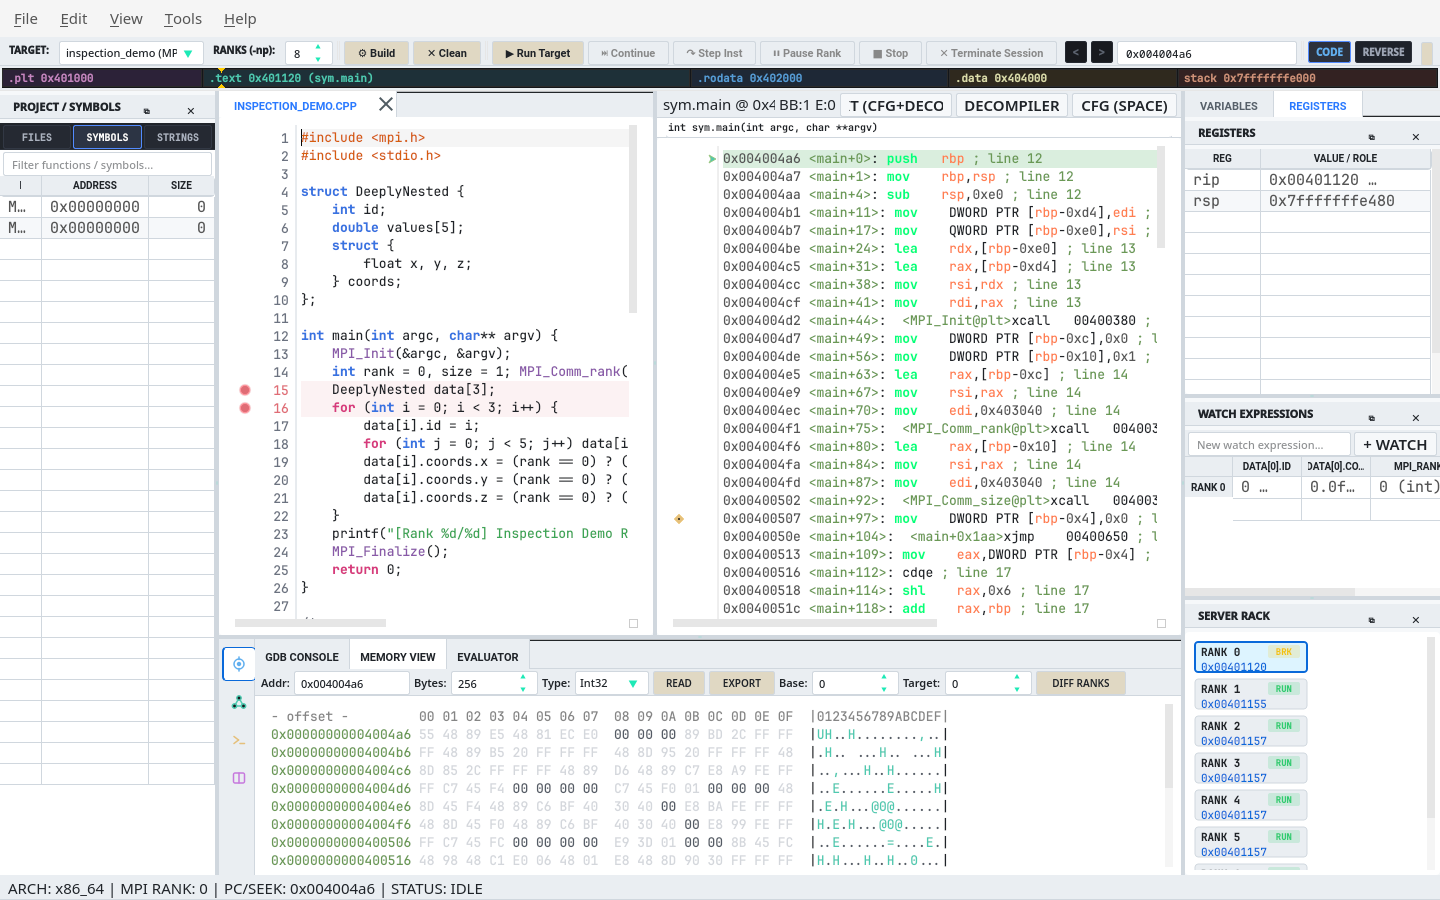
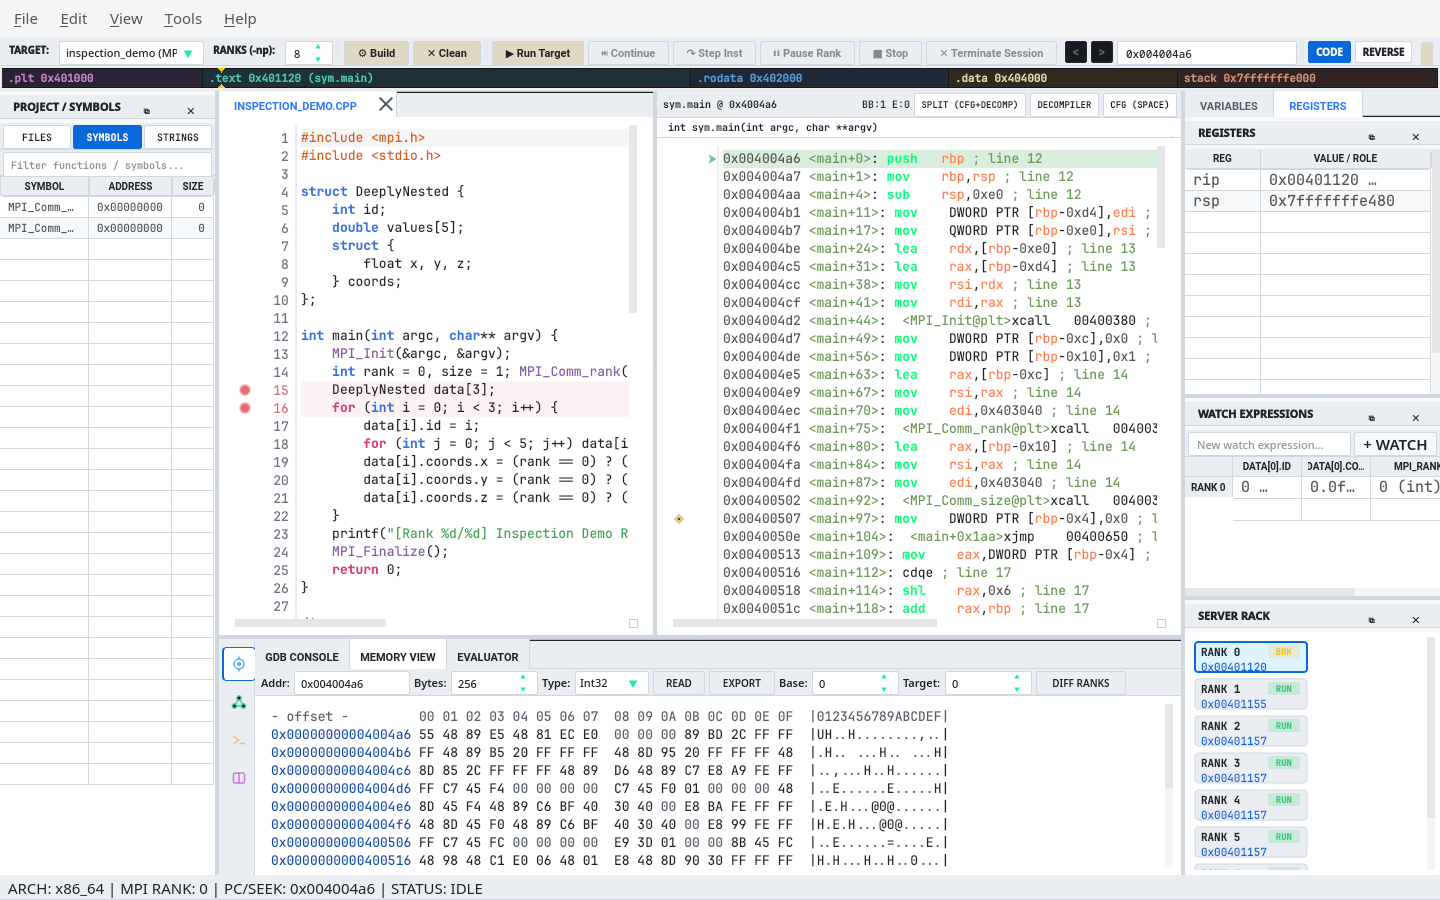
fix(disasm,docs): prevent DisassemblyView header button clipping and add Solarized/Latte screenshots to THEMES.md

diff --git a/tests/test_ui_aux.cpp b/tests/test_ui_aux.cpp
@@ -738,29 +738,24 @@ void TestMainWindowUI::testTerminalFontIsolationLivePatchingAndDeadlockCycle() {
 void TestMainWindowUI::testPatchedElfExportWorkspaceSearchAndDeadlockPropagation() {
     // 1. Initialize MainWindow and load running binary target
     gridlock::ui::MainWindow mainWindow;
-    const QString appPath = QCoreApplication::applicationFilePath();
-    QVERIFY(mainWindow.loadBinaryTarget(appPath));
+    QVERIFY(mainWindow.loadBinaryTarget(QCoreApplication::applicationFilePath()));
     mainWindow.loadPreviewFixture();
     auto* inspector = mainWindow.elfInspector();
     QVERIFY(inspector != nullptr && inspector->isValid());
 
     // Locate .text section address
     uint64_t textAddr = 0;
-    for (const auto& sec : inspector->sections()) {
-        if (sec.name == QStringLiteral(".text")) { textAddr = sec.address; break; }
-    }
+    for (const auto& sec : inspector->sections()) if (sec.name == QStringLiteral(".text")) { textAddr = sec.address; break; }
     if (textAddr == 0) textAddr = inspector->entryPoint();
     QVERIFY(textAddr != 0);
 
     // Apply live 2-byte patch via MemView and export patched binary to temporary file on disk
     auto* memView = mainWindow.findChild<gridlock::ui::MemView*>();
-    QVERIFY(memView != nullptr);
     const QByteArray patchBytes = QByteArray::fromHex("9090");
-    QVERIFY(memView->patchBytes(textAddr, patchBytes));
+    QVERIFY(memView != nullptr && memView->patchBytes(textAddr, patchBytes));
     QTemporaryDir tempDir;
-    QVERIFY(tempDir.isValid());
     const QString exportPath = tempDir.filePath(QStringLiteral("patched_gridlock_bin"));
-    QVERIFY(mainWindow.exportPatchedBinary(exportPath) && QFile::exists(exportPath));
+    QVERIFY(tempDir.isValid() && mainWindow.exportPatchedBinary(exportPath) && QFile::exists(exportPath));
 
     // Verify written file permissions and payload via independent inspector
     gridlock::core::ElfBinaryInspector verifyInspector(exportPath);
@@ -768,23 +763,17 @@ void TestMainWindowUI::testPatchedElfExportWorkspaceSearchAndDeadlockPropagation
 
     // 2. Test unified multi-domain workspace search
     const auto searchMatches = mainWindow.searchWorkspace(QStringLiteral("main"));
-    QVERIFY(!searchMatches.isEmpty());
     bool foundValidAddress = false;
     for (const auto& match : searchMatches) {
-        if (match.address != 0 && (match.label.contains(QStringLiteral("main"), Qt::CaseInsensitive) ||
-                                   match.contextSnippet.contains(QStringLiteral("main"), Qt::CaseInsensitive))) {
-            foundValidAddress = true; break;
-        }
+        if (match.address != 0 && (match.label.contains(QStringLiteral("main"), Qt::CaseInsensitive) || match.contextSnippet.contains(QStringLiteral("main"), Qt::CaseInsensitive))) { foundValidAddress = true; break; }
     }
-    QVERIFY(foundValidAddress);
+    QVERIFY(!searchMatches.isEmpty() && foundValidAddress);
 
     // 3. Test deadlock wait-for cycle detection and propagation to DisassemblyView and status bar
     const QVector<int> detectedCycle = mainWindow.detectAndHighlightDeadlock({{0, 1}, {1, 0}});
-    QVERIFY(detectedCycle.contains(0) && detectedCycle.contains(1));
     auto* disasm = mainWindow.findChild<gridlock::ui::DisassemblyView*>();
-    QVERIFY(disasm != nullptr && disasm->deadlockCycleRanks().contains(0) && disasm->deadlockCycleRanks().contains(1));
     auto* telemetryLabel = mainWindow.findChild<QLabel*>(QStringLiteral("cutterStatusTelemetry"));
-    QVERIFY(telemetryLabel != nullptr && telemetryLabel->text().contains(QStringLiteral("DEADLOCK")));
+    QVERIFY(detectedCycle.contains(0) && detectedCycle.contains(1) && disasm && disasm->deadlockCycleRanks().contains(0) && telemetryLabel && telemetryLabel->text().contains(QStringLiteral("DEADLOCK")));
 }
 
 /**
@@ -800,40 +789,31 @@ void TestMainWindowUI::testMultiDistroPackageManagerParsingAndViewModes() {
     // 2. Multi-Distro CLI Output Parsing (pacman, dnf4, dnf5, apt, zypper).
     const QString pacmanOut = QStringLiteral("extra/openmpi 5.0.5-1 [installed]\n    High performance message passing library (MPI)\nextra/hypre 2.31.0-1\n    Parallel multigrid solvers\n");
     const auto pacmanRecs = widget.parsePackageManagerOutput(QStringLiteral("pacman"), pacmanOut);
-    QVERIFY(pacmanRecs.size() == 2 && pacmanRecs[0].name == QStringLiteral("openmpi") && pacmanRecs[0].version == QStringLiteral("5.0.5-1"));
-    QVERIFY(pacmanRecs[0].repository == QStringLiteral("extra") && pacmanRecs[0].status == QStringLiteral("Installed") && pacmanRecs[0].description.contains(QStringLiteral("message passing")));
-    QVERIFY(pacmanRecs[1].name == QStringLiteral("hypre") && pacmanRecs[1].status == QStringLiteral("Available"));
+    QVERIFY(pacmanRecs.size() == 2 && pacmanRecs[0].name == QStringLiteral("openmpi") && pacmanRecs[0].version == QStringLiteral("5.0.5-1") && pacmanRecs[0].repository == QStringLiteral("extra") && pacmanRecs[0].status == QStringLiteral("Installed") && pacmanRecs[1].name == QStringLiteral("hypre") && pacmanRecs[1].status == QStringLiteral("Available"));
 
     // Verify Fedora/RHEL dnf4 ("pkg.arch : summary") and Fedora 40+ dnf5 (" pkg.arch\tsummary") formats.
     const auto dnfRecs = widget.parsePackageManagerOutput(QStringLiteral("dnf"), QStringLiteral("Last metadata expiration check...\n=== Name & Summary Matched: openmpi ===\nopenmpi.x86_64 : Open Message Passing Interface\nopenmpi-devel.x86_64 : Development headers for OpenMPI\n"));
-    QVERIFY(dnfRecs.size() == 2 && dnfRecs[0].name == QStringLiteral("openmpi") && dnfRecs[0].arch == QStringLiteral("x86_64") && dnfRecs[1].name == QStringLiteral("openmpi-devel"));
     const auto dnf5Recs = widget.parsePackageManagerOutput(QStringLiteral("dnf"), QStringLiteral("Updating and loading repositories:\nRepositories loaded.\nMatched fields: name, summary\n fd-find.x86_64\tFast and user-friendly alternative to find\n fdupes.x86_64  Finds duplicate files in a given set of directories\n"));
-    QVERIFY(dnf5Recs.size() == 2 && dnf5Recs[0].name == QStringLiteral("fd-find") && dnf5Recs[0].arch == QStringLiteral("x86_64") && dnf5Recs[0].description.contains(QStringLiteral("alternative to find")) && dnf5Recs[1].name == QStringLiteral("fdupes"));
+    QVERIFY(dnfRecs.size() == 2 && dnfRecs[0].name == QStringLiteral("openmpi") && dnf5Recs.size() == 2 && dnf5Recs[0].name == QStringLiteral("fd-find") && dnf5Recs[0].arch == QStringLiteral("x86_64") && dnf5Recs[1].name == QStringLiteral("fdupes"));
 
     // Verify Debian/Ubuntu apt-cache search and openSUSE zypper se -s pipe-delimited table parsing.
     const auto aptRecs = widget.parsePackageManagerOutput(QStringLiteral("apt"), QStringLiteral("openmpi-bin - high performance message passing library -- binaries\nlibopenmpi-dev - high performance message passing library -- header files\n"));
-    QVERIFY(aptRecs.size() == 2 && aptRecs[0].name == QStringLiteral("openmpi-bin") && aptRecs[1].name == QStringLiteral("libopenmpi-dev"));
     const auto zypperRecs = widget.parsePackageManagerOutput(QStringLiteral("zypper"), QStringLiteral("S  | Name        | Type    | Version   | Arch   | Repository\n---+-------------+---------+-----------+--------+----------------\ni+ | openmpi4    | package | 4.1.6-1.1 | x86_64 | Main Repository\n   | openmpi4-devel | package | 4.1.6-1.1 | x86_64 | Main Repository\n"));
-    QVERIFY(zypperRecs.size() == 2 && zypperRecs[0].name == QStringLiteral("openmpi4") && zypperRecs[0].status == QStringLiteral("Installed") && zypperRecs[0].version == QStringLiteral("4.1.6-1.1") && zypperRecs[1].status == QStringLiteral("Available"));
+    QVERIFY(aptRecs.size() == 2 && aptRecs[0].name == QStringLiteral("openmpi-bin") && zypperRecs.size() == 2 && zypperRecs[0].name == QStringLiteral("openmpi4") && zypperRecs[0].status == QStringLiteral("Installed") && zypperRecs[1].status == QStringLiteral("Available"));
 
     // 3. Three Switchable Views (Table, List, Raw) & Non-Empty Table Population.
     widget.displayPackageRecords(pacmanRecs, pacmanOut);
     QCOMPARE(widget.packageTableRowCount(), 2);
-    for (const QString& mode : {QStringLiteral("Table"), QStringLiteral("List"), QStringLiteral("Raw")}) {
-        widget.setViewMode(mode);
-        QCOMPARE(widget.currentViewMode(), mode);
-    }
+    for (const QString& mode : {QStringLiteral("Table"), QStringLiteral("List"), QStringLiteral("Raw")}) { widget.setViewMode(mode); QCOMPARE(widget.currentViewMode(), mode); }
     auto* listBrowser = widget.findChild<QTextBrowser*>();
     QVERIFY(listBrowser != nullptr && listBrowser->toPlainText().contains(QStringLiteral("openmpi")));
 
     // 4. Verify packageStatusFilterCombo generous width (>= 145px) and live host package query for "fd".
     auto* statusCombo = widget.findChild<QComboBox*>(QStringLiteral("packageStatusFilterCombo"));
-    QVERIFY(statusCombo != nullptr && statusCombo->minimumWidth() >= 145 && statusCombo->count() == 3);
-    QVERIFY(!statusCombo->itemIcon(0).isNull() && !statusCombo->itemIcon(1).isNull() && !statusCombo->itemIcon(2).isNull());
+    QVERIFY(statusCombo != nullptr && statusCombo->minimumWidth() >= 145 && statusCombo->count() == 3 && !statusCombo->itemIcon(0).isNull());
     // Execute live host query for "fd" and verify visiblePackageCount() matches actual visible table rows (> 0).
     const int fdMatches = widget.searchPackagesSynchronously(QStringLiteral("fd"), 400);
-    QVERIFY2(fdMatches > 0, "Live host package query for 'fd' must return > 0 real system/repo packages");
-    QCOMPARE(widget.visiblePackageCount(), fdMatches);
+    QVERIFY2(fdMatches > 0 && widget.visiblePackageCount() == fdMatches, "Live host package query for 'fd' must return > 0 real system/repo packages");
 }
 
 /**
@@ -847,19 +827,33 @@ void TestMainWindowUI::testGenerateAndVerifyUpdatedDocumentationScreenshots() {
                                 ? QStringLiteral("../docs/screenshots") : QStringLiteral("docs/screenshots");
     // 1. Capture all workstation, feature, and theme screenshots via MainWindow::captureDocumentationScreenshots.
     QVERIFY2(mainWindow.captureDocumentationScreenshots(shotDir), "captureDocumentationScreenshots must succeed");
+    QVERIFY2(QFileInfo::exists(shotDir + QStringLiteral("/theme_solarized_light.png")) &&
+                 QFileInfo::exists(shotDir + QStringLiteral("/theme_catppuccin_latte.png")),
+             "theme_solarized_light.png and theme_catppuccin_latte.png must exist in docs/screenshots");
 
     // 2. Verify every required PNG file exists, exceeds 15 KB, and loads as a valid >= 800x500 QImage.
-    for (const QString& fn : {QStringLiteral("workstation_overview.png"), QStringLiteral("workspace_overview.png"), QStringLiteral("cfg_decompiler_split.png"), QStringLiteral("mpi_diagnostics_docsets.png"), QStringLiteral("breakpoint_popover.png"), QStringLiteral("tool_rail_debug_tabs.png"), QStringLiteral("tool_rail_mpi_diagnostics.png"), QStringLiteral("package_manager_mpi_search.png"), QStringLiteral("package_manager_list_view.png"), QStringLiteral("preferences_slurm_autodetect.png"), QStringLiteral("theme_gridlock_slate.png"), QStringLiteral("theme_obsidian_teal.png"), QStringLiteral("theme_tokyo_night.png"), QStringLiteral("theme_catppuccin_mocha.png"), QStringLiteral("theme_gruvbox_dark.png"), QStringLiteral("theme_daylight_light.png")}) {
+    for (const QString& fn : {QStringLiteral("workstation_overview.png"), QStringLiteral("workspace_overview.png"), QStringLiteral("cfg_decompiler_split.png"), QStringLiteral("mpi_diagnostics_docsets.png"), QStringLiteral("breakpoint_popover.png"), QStringLiteral("tool_rail_debug_tabs.png"), QStringLiteral("tool_rail_mpi_diagnostics.png"), QStringLiteral("package_manager_mpi_search.png"), QStringLiteral("package_manager_list_view.png"), QStringLiteral("preferences_slurm_autodetect.png"), QStringLiteral("theme_gridlock_slate.png"), QStringLiteral("theme_obsidian_teal.png"), QStringLiteral("theme_tokyo_night.png"), QStringLiteral("theme_catppuccin_mocha.png"), QStringLiteral("theme_gruvbox_dark.png"), QStringLiteral("theme_daylight_light.png"), QStringLiteral("theme_solarized_light.png"), QStringLiteral("theme_catppuccin_latte.png")}) {
         const QString fullPath = shotDir + QLatin1Char('/') + fn;
         const QImage img(fullPath);
         QVERIFY2(QFileInfo(fullPath).size() > 15000 && !img.isNull() && img.width() >= 800 && img.height() >= 500, qPrintable(fullPath));
     }
 
-    // 3. Verify docs/USER_GUIDE.md references breakpoint_popover.png and package_manager_mpi_search.png.
+    // 3. Verify DisassemblyView mode toggle buttons (SPLIT (CFG+DECOMP), DECOMPILER, CFG (SPACE)) never clip text.
+    if (auto* disasm = mainWindow.disassemblyView()) {
+        for (const QString& obj : {QStringLiteral("cutterSplitViewBtn"), QStringLiteral("cutterDecompilerBtn"), QStringLiteral("cutterCfgToggleBtn")}) {
+            auto* btn = disasm->findChild<QPushButton*>(obj);
+            QVERIFY2(btn && btn->isVisible() && btn->width() >= btn->sizeHint().width(), qPrintable(obj));
+        }
+    }
+
+    // 4. Verify docs/USER_GUIDE.md and docs/THEMES.md embed the required screenshot assets.
     QFile guideFile(QFileInfo::exists(QStringLiteral("docs/USER_GUIDE.md")) ? QStringLiteral("docs/USER_GUIDE.md") : QStringLiteral("../docs/USER_GUIDE.md"));
-    QVERIFY(guideFile.open(QIODevice::ReadOnly));
+    QFile themesFile(QFileInfo::exists(QStringLiteral("docs/THEMES.md")) ? QStringLiteral("docs/THEMES.md") : QStringLiteral("../docs/THEMES.md"));
+    QVERIFY(guideFile.open(QIODevice::ReadOnly) && themesFile.open(QIODevice::ReadOnly));
     const QString guideText = QString::fromUtf8(guideFile.readAll());
+    const QString themesText = QString::fromUtf8(themesFile.readAll());
     QVERIFY2(guideText.contains(QStringLiteral("breakpoint_popover.png")) && guideText.contains(QStringLiteral("package_manager_mpi_search.png")), "docs/USER_GUIDE.md must embed new assets");
+    QVERIFY2(themesText.contains(QStringLiteral("theme_solarized_light.png")) && themesText.contains(QStringLiteral("theme_catppuccin_latte.png")), "docs/THEMES.md must embed theme_solarized_light.png and theme_catppuccin_latte.png");
 }
 
 /**

diff --git a/src/ui/views/DisassemblyView.cpp b/src/ui/views/DisassemblyView.cpp
@@ -372,12 +372,16 @@ DisassemblyView::DisassemblyView(QWidget *parent) : QWidget(parent) {
   headerLayout->setContentsMargins(6, 2, 4, 2);
   headerLayout->setSpacing(4);
 
-  // Address and active symbol indicator badge
+  // Address and active symbol indicator badge (flexible width so it never crushes right-side mode buttons)
   m_headerBadge = new QLabel(QStringLiteral("DISASM | sym.main @ 0x00401120"), headerWidget);
   m_headerBadge->setObjectName("cutterDisasmBadge");
+  m_headerBadge->setSizePolicy(QSizePolicy::Ignored, QSizePolicy::Preferred);
+  m_headerBadge->setMinimumWidth(40);
   // Basic block and edge count statistic badge
   m_statsBadge = new QLabel(headerWidget);
   m_statsBadge->setObjectName("cutterDisasmStats");
+  m_statsBadge->setSizePolicy(QSizePolicy::Maximum, QSizePolicy::Preferred);
+  m_statsBadge->setMinimumWidth(0);
 
   // Side-by-side CFG + Decompiler toggle button
   m_splitToggleBtn = new QPushButton(QStringLiteral("SPLIT (CFG+DECOMP)"), headerWidget);
@@ -385,6 +389,7 @@ DisassemblyView::DisassemblyView(QWidget *parent) : QWidget(parent) {
   m_splitToggleBtn->setCheckable(true);
   m_splitToggleBtn->setCursor(Qt::PointingHandCursor);
   m_splitToggleBtn->setFixedHeight(20);
+  m_splitToggleBtn->setSizePolicy(QSizePolicy::Minimum, QSizePolicy::Fixed);
   connect(m_splitToggleBtn, &QPushButton::clicked, this, &DisassemblyView::setSplitGraphDecompilerMode);
 
   // Linear vs CFG Graph view mode toggle button
@@ -392,6 +397,7 @@ DisassemblyView::DisassemblyView(QWidget *parent) : QWidget(parent) {
   m_modeToggleBtn->setObjectName("cutterCfgToggleBtn");
   m_modeToggleBtn->setCursor(Qt::PointingHandCursor);
   m_modeToggleBtn->setFixedHeight(20);
+  m_modeToggleBtn->setSizePolicy(QSizePolicy::Minimum, QSizePolicy::Fixed);
   connect(m_modeToggleBtn, &QPushButton::clicked, this, &DisassemblyView::toggleViewMode);
 
   // Fullscreen decompiler view mode toggle button
@@ -400,15 +406,15 @@ DisassemblyView::DisassemblyView(QWidget *parent) : QWidget(parent) {
   m_decompilerToggleBtn->setCheckable(true);
   m_decompilerToggleBtn->setCursor(Qt::PointingHandCursor);
   m_decompilerToggleBtn->setFixedHeight(20);
+  m_decompilerToggleBtn->setSizePolicy(QSizePolicy::Minimum, QSizePolicy::Fixed);
   connect(m_decompilerToggleBtn, &QPushButton::clicked, this, &DisassemblyView::setDecompilerMode);
 
-  // Assemble header toolbar items
-  headerLayout->addWidget(m_headerBadge);
-  headerLayout->addStretch(1);
-  headerLayout->addWidget(m_statsBadge);
-  headerLayout->addWidget(m_splitToggleBtn);
-  headerLayout->addWidget(m_decompilerToggleBtn);
-  headerLayout->addWidget(m_modeToggleBtn);
+  // Assemble header toolbar items with stretchable left symbol badge and unclipped right mode buttons
+  headerLayout->addWidget(m_headerBadge, 1);
+  headerLayout->addWidget(m_statsBadge, 0);
+  headerLayout->addWidget(m_splitToggleBtn, 0);
+  headerLayout->addWidget(m_decompilerToggleBtn, 0);
+  headerLayout->addWidget(m_modeToggleBtn, 0);
   rootLayout->addWidget(headerWidget);
 
   // Compact sub-header bar displaying reconstructed function signature
@@ -603,6 +609,8 @@ void DisassemblyView::updateViewModeLayout() {
   if (m_splitToggleBtn) m_splitToggleBtn->setChecked(m_splitGraphDecompiler);
   if (m_modeToggleBtn) {
     m_modeToggleBtn->setText(m_graphMode ? QStringLiteral("Linear (Space)") : QStringLiteral("CFG (Space)"));
+    m_modeToggleBtn->setMinimumWidth(qMax(m_modeToggleBtn->sizeHint().width(),
+                                          m_modeToggleBtn->fontMetrics().horizontalAdvance(m_modeToggleBtn->text()) + 14));
   }
 
   // Handle Split mode: Side-by-side CFG Graph (left) + Decompiler (right)
@@ -853,19 +861,36 @@ void DisassemblyView::reloadStyle() {
   applyEditorPalette(m_linearEdit);
   if (m_linearEdit) m_linearEdit->updateGutter();
   applyEditorPalette(m_decompilerEdit);
+  // Style top header strip, symbol/stats badges, and mode toggle buttons from the active theme palette
+  if (auto *hdr = findChild<QWidget *>(QStringLiteral("cutterDisasmHeader"))) {
+    const auto pal = gridlock::core::ThemeManager::paletteForTheme(tm.activeThemeId());
+    // Resolve button background, checked background, and foreground contrast colors for dark and light polarity
+    const QString btnBg = tm.isDarkMode() ? QStringLiteral("#252932") : pal.canvasHex;
+    const QString btnChkBg = tm.isDarkMode() ? QStringLiteral("#2c3444") : pal.accentHex;
+    const QString btnChkFg = QStringLiteral("#ffffff");
+    // Enforce compact 6px horizontal button padding so SPLIT (CFG+DECOMP), DECOMPILER, and CFG (Space) never clip
+    hdr->setStyleSheet(QStringLiteral("#cutterDisasmHeader { background: %1; border-bottom: 1px solid %2; } #cutterDisasmBadge { color: %3; font-family: 'JetBrains Mono', monospace; font-size: 10px; font-weight: 600; } #cutterDisasmStats { color: %3; font-family: 'JetBrains Mono', monospace; font-size: 10px; } #cutterCfgToggleBtn, #cutterDecompilerBtn, #cutterSplitViewBtn { background: %4; color: %3; border: 1px solid %2; border-radius: 2px; padding: 1px 6px; min-height: 18px; max-height: 20px; font-family: 'JetBrains Mono', monospace; font-size: 9px; font-weight: 600; } #cutterCfgToggleBtn:hover, #cutterDecompilerBtn:hover, #cutterSplitViewBtn:hover { background: %2; border: 1px solid %5; color: %3; } #cutterDecompilerBtn:checked, #cutterSplitViewBtn:checked { background: %6; color: %7; border: 1px solid %5; }").arg(pal.headerHex, pal.borderHex, pal.textHex, btnBg, pal.accentHex, btnChkBg, btnChkFg));
+  }
+  // Synchronize minimum widths on all three header mode buttons to prevent horizontal label truncation
+  for (QPushButton *btn : {m_splitToggleBtn, m_decompilerToggleBtn, m_modeToggleBtn}) {
+    if (btn) btn->setMinimumWidth(qMax(btn->sizeHint().width(), btn->fontMetrics().horizontalAdvance(btn->text()) + 14));
+  }
+  // Style reconstructed function signature banner strip and label
   if (auto *sigBar = findChild<QWidget *>(QStringLiteral("disasmSignatureBar"))) {
     sigBar->setStyleSheet(QStringLiteral("background: %1; border-bottom: 1px solid %2;").arg(bgHex, bdrHex));
   }
+  // Apply high-contrast gold (dark) or charcoal (light) foreground to the signature label
   if (m_signatureLabel) {
     const QString sigTextColor = tm.isDarkMode() ? QStringLiteral("#dcdcaa") : QStringLiteral("#1f2328");
-    m_signatureLabel->setStyleSheet(
-        QStringLiteral("color: %1; font-family: 'JetBrains Mono', monospace; font-size: 10px; font-weight: 600;").arg(sigTextColor));
+    m_signatureLabel->setStyleSheet(QStringLiteral("color: %1; font-family: 'JetBrains Mono', monospace; font-size: 10px; font-weight: 600;").arg(sigTextColor));
   }
+  // Style bottom decompiler status bar to match active theme header and border tokens
   if (auto *footer = findChild<QWidget *>(QStringLiteral("decompilerFooterBar"))) {
     const QString footerBg = tm.isDarkMode() ? QStringLiteral("#21252b") : sw.value(1, QStringLiteral("#eee8d5"));
     const QString footerBdr = tm.isDarkMode() ? QStringLiteral("#2c313a") : sw.value(2, QStringLiteral("#d3cbb7"));
     footer->setStyleSheet(QStringLiteral("background: %1; border-top: 1px solid %2; font-family: 'JetBrains Mono', monospace; font-size: 10px; color: %3;").arg(footerBg, footerBdr, fgHex));
   }
+  // Refresh CFG scene background, assembly syntax highlighter rules, and active PC highlight
   if (m_cfgView) m_cfgView->setBackgroundBrush(QColor(bgHex));
   if (m_highlighter) m_highlighter->reloadRules();
   highlightActiveInstruction();

diff --git a/src/ui/MainWindowCohesion.cpp b/src/ui/MainWindowCohesion.cpp
@@ -786,16 +786,23 @@ bool MainWindow::captureDocumentationScreenshots(const QString& outputDir) {
         return grab().save(dir.filePath(fn), "PNG", 88);
     };
 
-    // 1. Capture all 6 curated theme screenshots plus default workstation_overview & workspace_overview.
+    // 1. Capture all 8 curated theme screenshots plus default workstation_overview & workspace_overview.
+    setWorkspacePerspective(QStringLiteral("Code"));
     for (const auto& [presetId, fileName] : std::vector<std::pair<QString, QString>>{
              {QStringLiteral("dark_teal"), QStringLiteral("theme_obsidian_teal.png")},
              {QStringLiteral("tokyo_night"), QStringLiteral("theme_tokyo_night.png")},
              {QStringLiteral("catppuccin_mocha"), QStringLiteral("theme_catppuccin_mocha.png")},
              {QStringLiteral("gruvbox_dark"), QStringLiteral("theme_gruvbox_dark.png")},
              {QStringLiteral("daylight_light"), QStringLiteral("theme_daylight_light.png")},
+             {QStringLiteral("solarized_light"), QStringLiteral("theme_solarized_light.png")},
+             {QStringLiteral("catppuccin_latte"), QStringLiteral("theme_catppuccin_latte.png")},
              {QStringLiteral("gridlock_slate"), QStringLiteral("theme_gridlock_slate.png")}}) {
         if (!isFresh(fileName)) { core::managers::ThemeManager::instance().applyTheme(presetId, false); propagateThemeToAllWidgets(); }
         if (!saveGrab(fileName)) return false;
+    }
+    if (core::managers::ThemeManager::instance().activeThemeId() != QStringLiteral("gridlock_slate")) {
+        core::managers::ThemeManager::instance().applyTheme(QStringLiteral("gridlock_slate"), false);
+        propagateThemeToAllWidgets();
     }
     // Save primary workstation & workspace overview assets from the active Gridlock Slate theme.
     if (!saveGrab(QStringLiteral("workstation_overview.png")) || !saveGrab(QStringLiteral("workspace_overview.png"))) return false;

diff --git a/docs/THEMES.md b/docs/THEMES.md
@@ -79,7 +79,11 @@ Neutral light background with dark text and blue accents for bright rooms or scr
 ### 7. Solarized Warm (`solarized_light`)
 Warm cream background with muted slate text and blue accents based on Solarized Light.
 
+![Solarized Warm Light Theme](screenshots/theme_solarized_light.png)
+
 ---
 
 ### 8. Catppuccin Latte (`catppuccin_latte`)
 Soft light background with dark slate text and blue accents from the Catppuccin Latte palette.
+
+![Catppuccin Latte Light Theme](screenshots/theme_catppuccin_latte.png)
